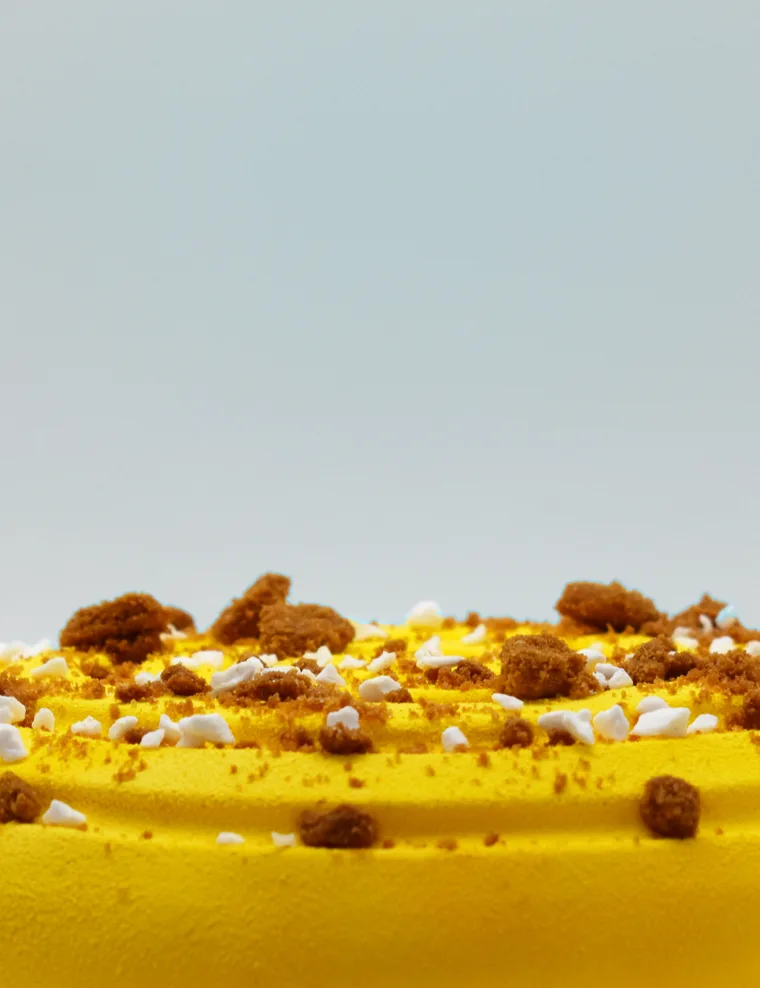
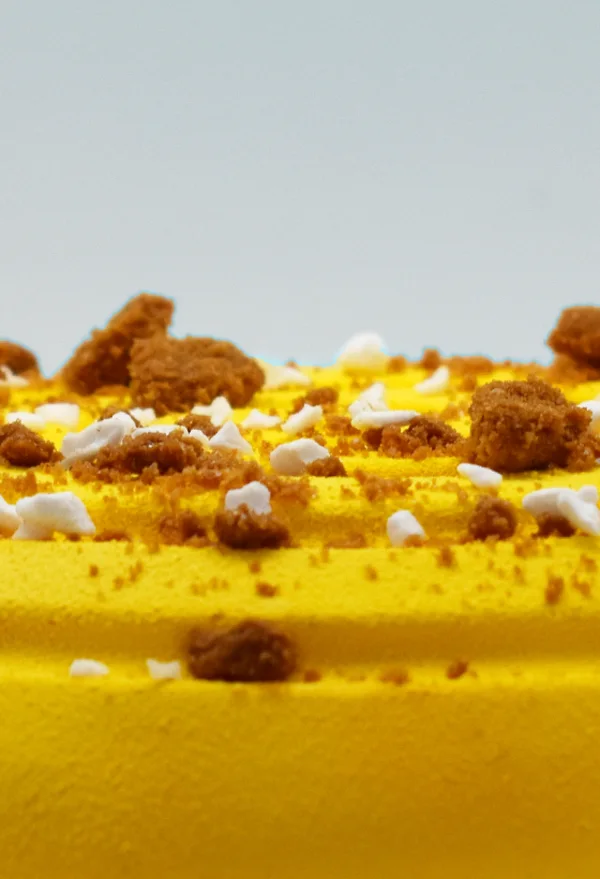
v3: fotos reales de Beekery, horario y teléfono del obrador de Madrigueres
- Sustituye el stock y las fotos flojas por fotos del propietario en Google Maps
- Madrigueres: abierto desde el 3/11/2026, tel. 623 00 06 43, mar-vie 8-16, sáb-dom 9-14
- Nota diaria del pan: barras y hogazas de trigo blanco e integral 100%

diff --git a/index.html b/index.html
@@ -20,7 +20,7 @@
   <link rel="preconnect" href="https://fonts.googleapis.com" />
   <link rel="preconnect" href="https://fonts.gstatic.com" crossorigin />
   <link href="https://fonts.googleapis.com/css2?family=Bodoni+Moda:ital,opsz,wght@0,6..96,400..700;1,6..96,400..600&family=Mrs+Saint+Delafield&family=Hanken+Grotesk:wght@400;500;600;700&display=swap" rel="stylesheet" />
-  <link rel="stylesheet" href="styles.css?v=v3-1" />
+  <link rel="stylesheet" href="styles.css?v=v3-2" />
   <link rel="preload" as="image" href="assets/v3/hogaza-disc.webp" />
 
   <script type="application/ld+json">
@@ -54,17 +54,22 @@
   {
     "@context": "https://schema.org",
     "@type": "Bakery",
-    "name": "Beekery Obrador · Madrigueres",
+    "name": "Obrador Beekery · Madrigueres",
     "url": "https://beekery.es/",
-    "telephone": "+34 722 34 89 41",
+    "telephone": "+34 623 00 06 43",
     "address": {
       "@type": "PostalAddress",
-      "streetAddress": "Partida Madrigueres Sud, 26, Local 8",
+      "streetAddress": "Partida Madrigueres Sud, 26, Local 8A",
       "postalCode": "03700",
       "addressLocality": "Dénia",
       "addressRegion": "Alicante",
       "addressCountry": "ES"
-    }
+    },
+    "geo": { "@type": "GeoCoordinates", "latitude": 38.8380039, "longitude": 0.0923819 },
+    "openingHoursSpecification": [
+      { "@type": "OpeningHoursSpecification", "dayOfWeek": ["Tuesday","Wednesday","Thursday","Friday"], "opens": "08:00", "closes": "16:00" },
+      { "@type": "OpeningHoursSpecification", "dayOfWeek": ["Saturday","Sunday"], "opens": "09:00", "closes": "14:00" }
+    ]
   }
   </script>
 </head>
@@ -161,6 +166,7 @@
       <div class="hoy-head">
         <h2 class="duo" id="hoy-title"><span class="script">el pan</span><span class="caps">de hoy</span></h2>
         <p class="hoy-intro">Cada pan tiene <strong>su día</strong>. Algunos solo salen del horno una vez por semana, y el de cada día se acaba.</p>
+        <p class="hoy-daily">Y todos los días: barras y hogazas de trigo <strong>blanco</strong> e <strong>integral 100%</strong>.</p>
         <a class="btn btn-tinta" href="https://wa.me/34722348941" target="_blank" rel="noopener" data-hoy-wa>Guárdame uno por WhatsApp</a>
       </div>
 
@@ -201,11 +207,11 @@
 
       <div class="shelf">
         <a class="card card-arch" href="#carta" data-open="pan">
-          <img src="assets/v3/card-pan.webp" alt="Hogaza de masa madre de Beekery, enharinada y abierta en cuatro cortes" width="640" height="880" loading="lazy" />
+          <img src="assets/v3/card-pan.webp" alt="Hogazas de Beekery recién horneadas, enfriándose sobre la rejilla" width="780" height="1067" loading="lazy" />
           <span class="card-name">Pan</span><span class="card-meta">15 variedades</span>
         </a>
         <a class="card card-b" href="#carta" data-open="semi">
-          <img src="assets/v3/card-semi.webp" alt="Semifrío amarillo de Beekery con crumble de galleta y merengue" width="760" height="988" loading="lazy" style="object-position: 50% 100%" />
+          <img src="assets/v3/card-semi.webp" alt="Semifrío amarillo de Beekery con crumble de galleta y merengue" width="600" height="879" loading="lazy" />
           <span class="card-name">Semifríos</span><span class="card-meta">7 de vitrina</span>
         </a>
         <svg class="ring ring-badge" viewBox="0 0 200 200" aria-hidden="true">
@@ -214,22 +220,22 @@
           <use href="#hoja" x="76" y="88" width="48" height="22" />
         </svg>
         <a class="card card-c" href="#carta" data-open="cocas">
-          <img src="assets/v2/coca.webp" alt="Coca de verduras al horno de Beekery" width="760" height="520" loading="lazy" />
+          <img src="assets/v3/card-cocas.webp" alt="Cocas de Beekery recién horneadas, con cebolla caramelizada" width="780" height="1067" loading="lazy" />
           <span class="card-name">Cocas</span><span class="card-meta">7 recetas</span>
         </a>
 
         <p class="ghost" aria-hidden="true"><span>Panadería</span><span>Pastelería</span><em class="script">de obrador</em></p>
 
         <a class="card card-d" href="#carta" data-open="bolleria">
-          <img src="assets/v2/croissant.webp" alt="Cruasán de mantequilla (imagen ilustrativa)" width="1000" height="750" loading="lazy" />
+          <img src="assets/v3/card-bolleria.webp" alt="Rolls de hojaldre de Beekery en la vitrina" width="780" height="1067" loading="lazy" />
           <span class="card-name">Bollería</span><span class="card-meta">Para almorzar</span>
         </a>
         <a class="card card-e card-arch" href="#carta" data-open="tartas">
-          <img src="assets/v2/tiramisu.webp" alt="Tarta tiramisú de Beekery espolvoreada con cacao" width="480" height="626" loading="lazy" />
+          <img src="assets/v3/card-tartas.webp" alt="Porciones de tarta de galleta de cacao y nata de Beekery, con medallones con la B" width="780" height="1067" loading="lazy" />
           <span class="card-name">Tartas</span><span class="card-meta">Enteras o al corte</span>
         </a>
         <a class="card card-f" href="#carta" data-open="temp">
-          <img src="assets/v2/st-hogaza-manos.webp" alt="Manos colocando una hogaza sobre un paño de lino (imagen ilustrativa)" width="1200" height="1664" loading="lazy" />
+          <img src="assets/v3/card-temporada.webp" alt="Panettone de Beekery con azúcar perlado" width="780" height="1067" loading="lazy" style="object-position: 50% 100%" />
           <span class="card-name">Temporada</span><span class="card-meta">Según el calendario</span>
         </a>
       </div>
@@ -318,14 +324,14 @@
     <!-- ================= BANDA · MADRUGADA ================= -->
     <section class="band band-miel" id="madrugada" aria-labelledby="madrugada-title">
       <figure class="band-photo">
-        <img src="assets/v2/st-masa.webp" alt="Manos sosteniendo una bola de masa recién formada (imagen ilustrativa)" width="1200" height="1812" loading="lazy" />
+        <img src="assets/v3/band-obrador.webp" alt="En el obrador de Beekery, cocas recién formadas a mano antes de entrar al horno" width="1200" height="1517" loading="lazy" />
       </figure>
       <div class="band-panel">
         <p class="vert" aria-hidden="true">El oficio · Beekery · Dénia</p>
         <p class="script band-script">mientras Dénia duerme</p>
         <p class="band-lede">La masa trabaja de noche. <strong>Masa madre, harinas de proximidad y tiempo</strong>: cada pieza se forma a mano y fermenta lo que necesita antes de entrar al horno.</p>
         <ol class="steps">
-          <li><img src="assets/v2/st-harina.webp" alt="" width="1200" height="1800" loading="lazy" /><span>Harina</span></li>
+          <li><img src="assets/v3/step-obrador.webp" alt="" width="900" height="1200" loading="lazy" /><span>El obrador</span></li>
           <li><img src="assets/v2/st-bollos.webp" alt="" width="1400" height="933" loading="lazy" /><span>Formado a mano</span></li>
           <li><img src="assets/v2/st-miga.webp" alt="" width="1000" height="1778" loading="lazy" /><span>La miga</span></li>
         </ol>
@@ -366,7 +372,7 @@
         <p class="vert" aria-hidden="true">Raquel y Luis · Van Beek</p>
         <p class="band-kicker">Raquel y Luis, los hermanos Van Beek</p>
         <p class="band-lede">Beekery nace del sueño de dos hermanos enamorados de la panadería tradicional. Tras clasificarse para un mundial de panadería y ver su receta de <strong>Panou entrar en el Banco de Recetas de la UNESCO</strong>, la idea empezó a tomar forma.</p>
-        <p>Mientras Raquel trabajaba en algunas de las cocinas más prestigiosas del país, el proyecto se fue perfilando: una panadería que no entiende de prisas. En <strong>2019</strong> encendieron el horno de la Avenida de Gandia, y en <strong>noviembre de 2026</strong> abrieron un segundo obrador en la Partida Madrigueres.</p>
+        <p>Mientras Raquel trabajaba en algunas de las cocinas más prestigiosas del país, el proyecto se fue perfilando: una panadería que no entiende de prisas. En <strong>2019</strong> encendieron el horno de la Avenida de Gandia, y el <strong>3 de noviembre de 2026</strong> abrieron un segundo obrador en la Partida Madrigueres.</p>
         <p>Por el camino recuperaron tradiciones como la <strong>Mocadorà de Sant Dionís</strong>, que este año cumple su séptima edición en Beekery y la segunda junto a Amunt contra el Cáncer.</p>
         <ul class="facts">
           <li><strong>Panou</strong>en el Banco de Recetas de la UNESCO</li>
@@ -386,7 +392,7 @@
     <!-- ================= BANDA · ENCARGOS ================= -->
     <section class="band band-azul band-rev" id="encargos" aria-labelledby="encargos-title">
       <figure class="band-photo">
-        <img src="assets/v2/semifrio-tall.webp" alt="Semifrío de Beekery con crumble de galleta y merengue" width="1100" height="1154" loading="lazy" />
+        <img src="assets/v3/band-tarta.webp" alt="Tarta de pistacho y frutos rojos de Beekery, con su medallón con la B" width="800" height="1067" loading="lazy" />
       </figure>
       <div class="band-panel">
         <p class="vert" aria-hidden="true">Tartas · celebraciones · pan para eventos</p>
@@ -451,9 +457,17 @@
         </article>
 
         <article class="sede sede-new">
-          <p class="sede-n">02 · Nuevo · desde noviembre de 2026</p>
-          <h3>Ptda. Madrigueres Sud, 26 · Local 8</h3>
-          <p class="sede-note">Detrás del San Carlos. Consulta el horario de este obrador por WhatsApp.</p>
+          <p class="sede-n">02 · Nuevo · desde el 3 de noviembre de 2026</p>
+          <h3>Ptda. Madrigueres Sud, 26 · Local 8A</h3>
+          <p class="sede-note">Detrás del San Carlos. Teléfono de este obrador: <a href="tel:+34623000643">623 00 06 43</a>.</p>
+          <table class="hours hours-short">
+            <caption class="sr-only">Horario del obrador de Madrigueres</caption>
+            <tbody>
+              <tr><th scope="row">Martes a viernes</th><td>8:00 – 16:00</td></tr>
+              <tr><th scope="row">Sábado y domingo</th><td>9:00 – 14:00</td></tr>
+              <tr class="is-closed"><th scope="row">Lunes</th><td>Cerrado</td></tr>
+            </tbody>
+          </table>
           <a class="link" href="https://www.google.com/maps/search/?api=1&amp;query=Partida+Madrigueres+Sud+26+D%C3%A9nia" target="_blank" rel="noopener">Cómo llegar ↗</a>
 
           <div class="visita-actions">
@@ -487,7 +501,7 @@
     </div>
     <div class="footer-col">
       <h2>Contacto</h2>
-      <p>Av. de Gandia, 25 · Dénia<br />Ptda. Madrigueres Sud, 26 (local 8) · Dénia</p>
+      <p>Av. de Gandia, 25 · Dénia · <a href="tel:+34722348941">722 34 89 41</a><br />Ptda. Madrigueres Sud, 26 (local 8A) · Dénia · <a href="tel:+34623000643">623 00 06 43</a></p>
       <p><a href="tel:+34722348941">722 34 89 41</a> · <a href="https://wa.me/34722348941" target="_blank" rel="noopener">WhatsApp</a></p>
     </div>
     <div class="footer-col">
@@ -504,9 +518,9 @@
     <a href="https://www.google.com/maps/search/?api=1&amp;query=Beekery+Obrador+Av.+de+Gandia+25+D%C3%A9nia" target="_blank" rel="noopener">Cómo llegar</a>
   </nav>
 
-  <script defer src="lib/gsap.min.js?v=v3-1"></script>
-  <script defer src="lib/ScrollTrigger.min.js?v=v3-1"></script>
-  <script defer src="lib/manifest.js?v=v3-1"></script>
-  <script defer src="main.js?v=v3-1"></script>
+  <script defer src="lib/gsap.min.js?v=v3-2"></script>
+  <script defer src="lib/ScrollTrigger.min.js?v=v3-2"></script>
+  <script defer src="lib/manifest.js?v=v3-2"></script>
+  <script defer src="main.js?v=v3-2"></script>
 </body>
 </html>

diff --git a/styles.css b/styles.css
@@ -447,7 +447,7 @@ strong { font-weight: 700; }
 .band-photo { position: relative; margin: 0; min-height: 60vh; overflow: hidden; }
 .band-photo img { position: absolute; inset: 0; width: 100%; height: 100%; object-fit: cover; }
 .band-photo-bn img { filter: grayscale(1) contrast(1.12) brightness(1.02); }
-.band-azul .band-photo img { object-position: 50% 100%; }
+.band-azul .band-photo img { object-position: 45% 40%; }
 .band-rev .band-photo { order: 2; }
 
 .band-panel {
@@ -706,3 +706,8 @@ strong { font-weight: 700; }
 
 /* Bodoni a tamaño grande: algo más de peso y óptica de titular para que los perfiles finos aguanten */
 .duo .caps, .band-word, .ghost, .carta-title { font-weight: 600; font-variation-settings: "opsz" 40; }
+
+/* v3-2: nota diaria del pan y horario corto del segundo obrador */
+.hoy-daily { max-width: 27rem; margin: -1rem 0 2rem; padding-left: .9rem; border-left: 2px solid var(--oro); color: var(--tinta-2); font-size: .98rem; }
+.hours-short { margin-top: .4rem; }
+.sede-note a { color: var(--cafe); }

diff --git a/docs/image-sources.md b/docs/image-sources.md
@@ -35,3 +35,22 @@ Faltan: bollería (cruasán, rolls, napolitana), una coca entera vista desde arr
 | `assets/v2/obrador.webp` | Banda «Hermanos», en blanco y negro | Foto real de su web (407 px) | Real, pero de baja resolución | Retrato de Raquel y Luis en el obrador, en vertical y a 1600 px o más |
 
 En las bandas y las tarjetas de la v3 también se reutilizan imágenes de la v2, documentadas arriba: `st-masa`, `st-harina`, `st-bollos`, `st-miga`, `st-hogaza-manos`, `croissant`, `coca`, `tiramisu`, `montgo-m` y `semifrio-tall`.
+
+## v3, revisión 2: fotos reales de Beekery (17/11/2026)
+Fuente: fotos subidas por la propietaria a la ficha de Google Maps «Beekery Obrador» (Av. de Gandia, 25), filtro «Del propietario». Sustituyen al stock y a las fotos de poca calidad.
+
+| Archivo | Sección | Contenido |
+|---|---|---|
+| `assets/v3/card-pan.webp` | Tarjeta «Pan» | Hogazas recién horneadas en la rejilla del obrador |
+| `assets/v3/card-cocas.webp` | Tarjeta «Cocas» | Cocas de cebolla caramelizada |
+| `assets/v3/card-bolleria.webp` | Tarjeta «Bollería» | Rolls de hojaldre en la vitrina (sustituye al cruasán de stock) |
+| `assets/v3/card-tartas.webp` | Tarjeta «Tartas» | Tarta de galleta de cacao con medallones con la B |
+| `assets/v3/card-temporada.webp` | Tarjeta «Temporada» | Panettone (sustituye a la foto de stock de manos) |
+| `assets/v3/card-semi.webp` | Tarjeta «Semifríos» | Recorte más cerrado del semifrío amarillo (`photos/source/foto_2.jpg`) |
+| `assets/v3/band-obrador.webp` | Banda «Madrugada» | Cocas formadas a mano en el obrador (sustituye a `st-masa`, de stock) |
+| `assets/v3/step-obrador.webp` | Madrugada, paso «El obrador» | El obrador con sus hornos (sustituye a `st-harina`, de stock) |
+| `assets/v3/band-tarta.webp` | Banda «Encargos» | Tarta de pistacho y frutos rojos con medallón (sustituye al semifrío con fondo gris) |
+
+Siguen siendo de stock `st-bollos` (formado a mano) y `st-miga` (la miga), y `obrador.webp` (los hermanos) sigue siendo de baja resolución.
+
+**Descartadas a propósito:** las fotos de 2023 de la ficha «Obrador Beekery». Son de la antigua cafetería del Passeig del Saladar, no del obrador de Madrigueres, que abrió el 3 de noviembre de 2026.
